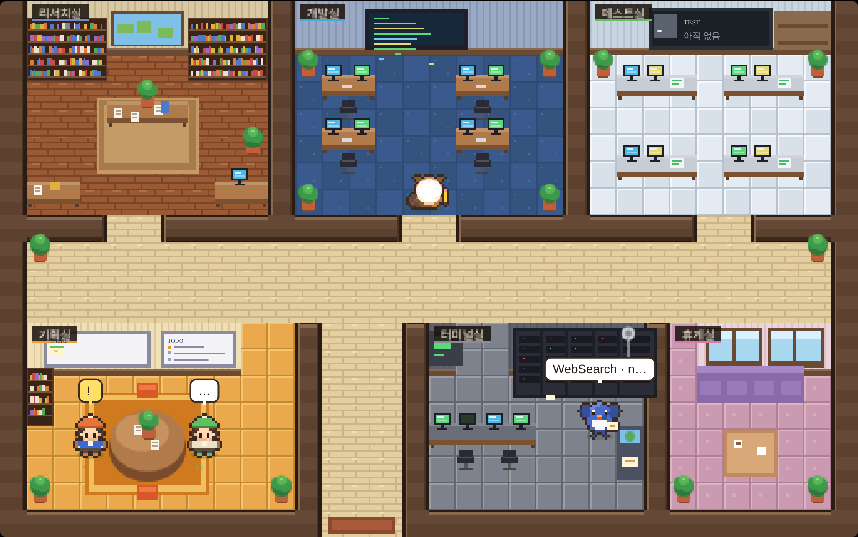
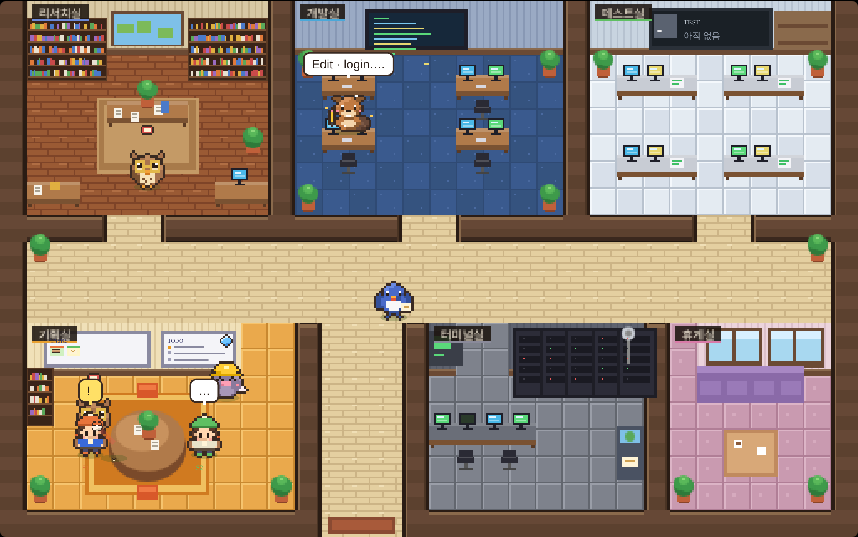
feat: release Pokémon from balls beside the trainer and recall them after work
- Trainer throws a ball, the Pokémon pops out beside them and walks to its room
- After the tool finishes it carries the result back and returns to the ball with a recall beam
- Subagent helper uses the same release and recall
- Remove office decoration growth (plants, trophies, completed count)

diff --git a/index.html b/index.html
@@ -85,7 +85,7 @@ footer{margin-top:18px;color:var(--quiet);font-size:12px;line-height:1.6}
 <div class="wrap">
   <header>
     <div>
-      <div class="kicker">CLAUDE CODE · POCKET OFFICE · v6</div>
+      <div class="kicker">CLAUDE CODE · POCKET OFFICE · v7</div>
       <h1>포켓몬이 일하는 <span>가상 사무실</span></h1>
     </div>
     <div class="chip" id="modeChip">DEMO</div>
@@ -204,6 +204,7 @@ const SPR={
   sub:sprite((g,f)=>{const o=f,Y='#ffe066',S1='#e0b830';g.ell(9,7.4+o,4.6,4.1,Y,S1,'#fff3a8');g.p(8,2+o,Y);g.p(9,2+o,Y);g.p(9,1+o,Y);g.pm(6,7+o,DARK);g.pm(6,6+o,WHITE);g.p(8,9+o,'#ff9a3c');g.p(9,9+o,'#ff9a3c');g.p(8,10+o,'#e0702a');g.p(9,10+o,'#e0702a');g.pm(4,9+o,S1);g.pm(5,8+o,'#ffb0b0');g.ell(9,13.4,5.2,3.8,'#fbf6ea','#d9d2c0',null,(x,y)=>y>=11+((x+f)%2));g.p(6,13,'#e9a4c4');g.p(11,14,'#9ad0f0');}),
 };
 // tiny carry items
+const BALL=(()=>{const g=new Grid(8,8);g.ell(4,4,3.6,3.6,'#e8743b','#c25a28',null,(x,y)=>y<4);g.ell(4,4,3.6,3.6,'#fff4e6','#d9cdb8',null,(x,y)=>y>=4);g.rect(0,3,8,1,DARK);g.p(3,3,'#fff');g.p(4,3,'#fff');g.outline();return g.canvas();})();
 const ITEM={};(()=>{const mk=(fn)=>{const g=new Grid(8,8);fn(g);g.outline();return g.canvas();};
   ITEM.read=mk(g=>{g.rect(1,2,6,4,'#d9534f');g.rect(2,3,4,2,'#fff4d6');});ITEM.search=mk(g=>{g.ell(4,4,2.6,2.6,'#6cc4ff','#3a8ad9','#e0f4ff');});
   ITEM.edit=mk(g=>{g.rect(0,3,8,2,'#c08a5e');g.rect(0,3,8,1,'#d8a878');});ITEM.bash=mk(g=>{g.rect(1,1,6,6,'#3a3a4a');g.rect(2,2,4,4,'#3fbf66');});
@@ -475,23 +476,25 @@ function handleEvent(ev){
   renderTowns();if(town.name===active)renderSide();
 }
 function freeSpot(town,mo,list,taken){const used=town.mons.filter(m=>m!==mo&&m.spot).map(m=>m.spot.join());return list.find(s=>!used.includes(s.join()))||list[Math.floor(Math.random()*list.length)];}
+function besideTrainer(town,tr){const n=town.mons.filter(m=>m.owner===tr&&['throw','appear'].includes(m.state)).length;const offs=[[14,2],[-14,2],[0,10],[22,8],[-22,8],[8,-6]];const o=offs[n%offs.length];return{x:tr.x+o[0],y:tr.y+o[1]};}
+function releaseMon(town,tr,mo){mo.owner=tr;const p=besideTrainer(town,tr);mo.x=p.x;mo.y=p.y;mo.state='throw';mo.t=360;tr.face=p.x<tr.x?-1:1;tr.faceUntil=now.t+900;
+  town.fx.push({type:'ball',x0:tr.x+tr.face*4,y0:tr.y-16,x1:p.x,y1:p.y-6,t:0,dur:360});}
+function recallMon(town,mo){const tr=mo.owner;if(!tr||!town.trainers.has(tr.id)){mo.state='vanish';mo.t=350;town.fx.push({type:'poof',x:mo.x,y:mo.y-10,t:0});return;}
+  mo.state='return';const p=besideTrainer(town,tr);goTo(mo,p.x,p.y);}
 function newJob(town,tr,ev,act){const role=act.role;const job={id:ev.id||`${ev.session}:${ev.tool}:${now.t}:${Math.random()}`,tool:act.tool,rawTool:ev.tool,label:act.label,key:`${ev.session}:${ev.tool}`,role,detail:ev.detail||ev.tool,tr,ok:undefined,start:now.t,endAt:null,mon:null};
   town.jobs.push(job);tr.state='think';town.restMode=false;
-  const d=DOOR[HAB[role].room];const mon=mkMon(role,false,{x:(d[0]+rand(-.3,.3))*T,y:d[1]*T});town.mons.push(mon);
-  mon.job=job;job.mon=mon;mon.state='appear';mon.t=420;town.fx.push({type:'poof',x:mon.x,y:mon.y-10,t:0});
-  ticker(town,`${HAB[role].name}: ${josa(nameOf(role),'이/가')} 나왔다 — 「${actText(act)}」 ${job.detail}`,tr);log('tool_start',`${town.name}·${tr.no} ${ev.tool} (${act.label}): ${job.detail}`);}
+  const mon=mkMon(role,false,{x:tr.x,y:tr.y});town.mons.push(mon);releaseMon(town,tr,mon);
+  mon.job=job;job.mon=mon;
+  ticker(town,`${tname(tr)}: 가라, ${nameOf(role)}! — 「${actText(act)}」 ${job.detail} (${HAB[role].name})`,tr);log('tool_start',`${town.name}·${tr.no} ${ev.tool} (${act.label}): ${job.detail}`);}
 function findJob(town,tr,ev){let j=ev.id&&town.jobs.find(x=>x.id===ev.id&&x.ok===undefined);if(!j)j=town.jobs.find(x=>x.key===`${ev.session}:${ev.tool}`&&x.ok===undefined);if(!j)j=town.jobs.find(x=>x.rawTool===ev.tool&&x.ok===undefined);return j;}
-function spawnSub(town,tr,ev){const mo=mkMon('sub',true,{x:tr.x+8,y:tr.y});town.fx.push({type:'poof',x:mo.x,y:mo.y-10,t:0});mo.subOf=tr.id;mo.state='subwork';mo.job={detail:ev.detail||'조사'};town.mons.push(mo);
+function spawnSub(town,tr,ev){const mo=mkMon('sub',true,{x:tr.x,y:tr.y});mo.subOf=tr.id;mo.job={detail:ev.detail||'조사'};mo.afterAppear='subwork';town.mons.push(mo);releaseMon(town,tr,mo);
   ticker(town,`${tname(tr)}의 「Agent · 서브에이전트 출동」! ${josa(nameOf('sub'),'이/가')} 조사하러 나갔다: ${ev.detail||''}`,tr);log('sub',`${town.name}·${tr.no} Task ${ev.detail||''}`);dexStats.sub.count++;dexStats.sub.last=ev.detail||'';renderDex();}
-function endSub(town,tr){const mo=town.mons.find(m=>m.role==='sub'&&m.subOf===tr.id&&m.state!=='bye');if(!mo)return;mo.state='subdone';mo.carry=true;goTo(mo,tr.x+12,tr.y);
+function endSub(town,tr){const mo=town.mons.find(m=>m.role==='sub'&&m.subOf===tr.id&&!['return','recall','vanish'].includes(m.state));if(!mo)return;mo.carry=true;recallMon(town,mo);
   ticker(town,`${josa(nameOf('sub'),'이/가')} 조사 결과를 들고 돌아왔다!`,tr);log('sub',`${town.name}·${tr.no} SubagentStop`);}
 function sendRest(){}
 
 // growth (office gets nicer)
-function grow(town,job){const g=town.growth;g.done++;const r=job.role;
-  if(r==='edit'){g.edits++;if(g.edits%5===0&&g.plants<6){g.plants++;ticker(town,`코드가 쌓여서 복도에 화분이 하나 늘었다! (${g.plants}/6)`);town.fx.push({type:'confetti',x:16*T,y:10*T,t:0});}}
-  if(r==='test'){town.lastTest={ok:true,label:job.label,at:now.t};if(job.label==='테스트 실행'&&g.trophies<6){g.trophies++;ticker(town,`테스트 통과! 테스트실 선반에 트로피 추가 (${g.trophies}/6)`);}town.fx.push({type:'confetti',x:26*T,y:2*T,t:0});}
-  renderSide();}
+function grow(town,job){if(job.role==='test')town.lastTest={ok:true,label:job.label,at:now.t};renderSide();}
 
 // monster brain
 function updateMon(town,mo,dt){const h=HAB[mo.role];mo.t-=dt;
@@ -503,11 +506,12 @@ function updateMon(town,mo,dt){const h=HAB[mo.role];mo.t-=dt;
         const p=randomFloor(h.room);goTo(mo,p.x,p.y);}break;
     case 'nap':if(mo.t<=0){mo.state='wander';mo.idle=0;}break;
     case 'rest':if(moveAlong(mo,.04*dt)){mo.face=1;if(mo.t<=0&&!town.restMode){mo.state='wander';mo.rest=null;const p=randomFloor(h.room);goTo(mo,p.x,p.y);}}break;
-    case 'appear':if(mo.t<=0){mo.state='go';mo.rest=null;const s=freeSpot(town,mo,h.spots);mo.spot=s;goTo(mo,s[0]*T,s[1]*T);}break;
-    case 'go':if(moveAlong(mo,.075*dt)){mo.state='work';mo.workStart=now.t;mo.face=1;}break;
+    case 'throw':if(mo.t<=0){mo.state='appear';mo.t=320;town.fx.push({type:'flash',x:mo.x,y:mo.y-8,t:0});}break;
+    case 'appear':if(mo.t<=0&&mo.afterAppear){mo.state=mo.afterAppear;mo.afterAppear=null;mo.pause=200;break;}if(mo.t<=0){mo.state='go';mo.rest=null;const s=freeSpot(town,mo,h.spots);mo.spot=s;goTo(mo,s[0]*T,s[1]*T);}break;
+    case 'go':if(moveAlong(mo,.1*dt)){mo.state='work';mo.workStart=now.t;mo.face=1;}break;
     case 'work':{const j=mo.job;if(j.ok!==undefined&&now.t-mo.workStart>800){
         dexStats[mo.role].count++;dexStats[mo.role].last=j.detail;
-        if(j.ok){mo.state='cheer';mo.t=700;town.fx.push({type:'fly',x0:mo.x,y0:mo.y-20,x1:BOARD.x+rand(-14,14),y1:BOARD.y,t:0,role:mo.role});grow(town,j);
+        if(j.ok){mo.state='cheer';mo.t=600;mo.carry=true;grow(town,j);
           ticker(town,`${nameOf(mo.role)}의 「${j.tool} · ${j.label}」 성공! ${j.detail.replace(/"/g,'')}`,j.tr);log('tool_end',`${town.name}·${j.tr.no} ${j.tool} ${j.label} 완료`);}
         else{mo.state='sad';mo.t=1500;if(mo.role==='test')town.lastTest={ok:false,label:j.label,at:now.t};ticker(town,`${nameOf(mo.role)}의 「${j.tool} · ${j.label}」 실패… ${j.detail}`,j.tr);log('tool_end',`${town.name}·${j.tr.no} ${j.tool} 실패`,'fail');}
         renderDex();}break;}
@@ -516,11 +520,14 @@ function updateMon(town,mo,dt){const h=HAB[mo.role];mo.t-=dt;
     case 'subdone':if(moveAlong(mo,.07*dt)){mo.state='bye';mo.t=700;mo.carry=false;town.fx.push({type:'pop',x:mo.x,y:mo.y-20,t:0});}break;
     case 'bye':if(mo.t<=0)mo.dead=true;break;
     case 'leave':if(moveAlong(mo,.06*dt))mo.dead=true;break;
-    case 'exit':if(moveAlong(mo,.07*dt)){mo.state='vanish';mo.t=350;town.fx.push({type:'poof',x:mo.x,y:mo.y-10,t:0});}break;
+    case 'return':{const tr=mo.owner;if(!tr||!town.trainers.has(tr.id)){mo.state='vanish';mo.t=350;break;}
+      if(moveAlong(mo,.1*dt)){if(Math.hypot(mo.x-tr.x,mo.y-tr.y)>30){const p=besideTrainer(town,tr);goTo(mo,p.x,p.y);break;}
+        mo.state='recall';mo.t=420;mo.carry=false;mo.face=tr.x<mo.x?-1:1;tr.face=mo.x<tr.x?-1:1;tr.faceUntil=now.t+700;town.fx.push({type:'beam',tr,mo,t:0,dur:420});}break;}
+    case 'recall':if(mo.t<=0)mo.dead=true;break;
     case 'vanish':if(mo.t<=0)mo.dead=true;break;
   }}
 function finishJob(town,mo){const j=mo.job;town.jobs=town.jobs.filter(x=>x!==j);mo.job=null;mo.spot=null;
-  const d=DOOR[HAB[mo.role].room];mo.state='exit';goTo(mo,d[0]*T,d[1]*T);
+  recallMon(town,mo);
   const tr=j.tr;if(!town.jobs.some(x=>x.tr===tr)&&tr.state==='think')tr.bubble='…';}
 
 // ───────── UI: towns, side panels
@@ -554,8 +561,7 @@ function renderSessions(){const t=towns.get(active);const el=$('sessList');if(!e
     c.innerHTML=`<div class="sw" style="width:40px;height:40px;background:${HATS[tr.color][0]}">S${tr.no}</div><div><div class="a"></div><div class="b"></div></div><div class="tm" style="color:${tr.state==='wait'?'var(--amber)':'var(--quiet)'}">${jobs?jobs+'건':''}</div>`;
     c.querySelector('.a').textContent=`${tname(tr)} · ${st}`;c.querySelector('.b').textContent=tr.prompt?`"${tr.prompt}"`:`세션 ${String(tr.id).slice(0,8)}`;el.appendChild(c);});
   if(t.todos.length){const d=document.createElement('div');d.style.cssText='margin-top:8px;font-size:13px;line-height:1.7';d.innerHTML='<div class="muted" style="font-size:12px">화이트보드 할 일</div>';
-    t.todos.forEach(td=>{const x=document.createElement('div');x.textContent=(td.s==='done'?'☑ ':td.s==='doing'?'▶ ':'☐ ')+td.text;if(td.s==='done')x.style.color='var(--quiet)';d.appendChild(x);});el.appendChild(d);}
-  const gs=document.createElement('div');gs.className='muted';gs.style.cssText='margin-top:8px;font-size:12px';gs.textContent=`완료 의뢰 ${g.done} · 트로피 ${g.trophies}/6 · 화분 ${g.plants}/6`;el.appendChild(gs);}
+    t.todos.forEach(td=>{const x=document.createElement('div');x.textContent=(td.s==='done'?'☑ ':td.s==='doing'?'▶ ':'☐ ')+td.text;if(td.s==='done')x.style.color='var(--quiet)';d.appendChild(x);});el.appendChild(d);}}
 setInterval(()=>{if(!paused)renderWork();},1000);
 function thumb(c,img){const x=c.getContext('2d');x.imageSmoothingEnabled=false;x.clearRect(0,0,48,48);const s=Math.min(44/img.width,44/img.height);const w=img.width*s,h=img.height*s;x.drawImage(img,(48-w)/2,(48-h)/2,w,h);}
 function buildDex(){}
@@ -729,12 +735,12 @@ function frame(ts){TS=Math.min(1.9,Math.max(1,900/(cv.clientWidth||900)));const 
   const town=towns.get(active);
   ctx.drawImage(map,0,0,BW*S,BH*S);animMap(now.t);
   if(town){
-    drawGrowth(town.growth);drawBoards(town);
+    drawBoards(town);
     const ents=[];
     town.mons.forEach(mo=>ents.push({y:mo.y,draw:()=>{const busy=mo.state==='work'||mo.state==='notice';const moving=mo.path.length>0;
       const f=busy?Math.floor(now.t/140)%2:moving?Math.floor(now.t/160)%2:Math.floor(now.t/700)%2;const cu=!!custom[mo.role];const sc=mo.helper&&mo.role!=='sub'?.82:1;
       const hop=moving?(cu?Math.abs(Math.sin(now.t/90))*2:f):busy&&cu?Math.abs(Math.sin(now.t/110))*2:0;
-      shadow(mo.x,mo.y,8*sc);const k=mo.state==='appear'?Math.max(.15,1-mo.t/420):mo.state==='vanish'?Math.max(.05,mo.t/350):1;const h=drawImg(monImg(mo.role,f),mo.x,mo.y-hop,mo.face,{cu,scale:sc*k,alpha:mo.state==='bye'?Math.max(0,mo.t/700):1});
+      shadow(mo.x,mo.y,8*sc);if(mo.state==='throw')return;const k=mo.state==='appear'?Math.max(.1,1-mo.t/320):mo.state==='recall'?Math.max(.03,mo.t/420):mo.state==='vanish'?Math.max(.05,mo.t/350):1;const h=drawImg(monImg(mo.role,f),mo.x,mo.y-hop,mo.face,{cu,scale:sc*k,alpha:mo.state==='bye'?Math.max(0,mo.t/700):1});
       if(mo.state==='work')moveFx(mo.role,mo,now.t);
       if(mo.state==='appear'&&mo.t<300){ctx.font=`${7*S}px 'Press Start 2P'`;ctx.fillStyle='#e8a020';ctx.fillText('!',px(mo.x-2),px(mo.y-h-4));}
       if(mo.state==='nap'){ctx.font=`${5*S}px 'Press Start 2P'`;ctx.fillStyle='#6b8ab0';ctx.fillText('z',px(mo.x+8),px(mo.y-h-((now.t/220)%5)));}
@@ -747,12 +753,16 @@ function frame(ts){TS=Math.min(1.9,Math.max(1,900/(cv.clientWidth||900)));const 
       if(mo.state==='work'&&mo.job)bubble(mo.x,mo.y,`${mo.job.tool} · ${mo.job.detail}`,'#fff',h+6);
       if(mo.state==='subwork')bubble(mo.x,mo.y,mo.job.detail,'#fff7d6',h+6);}}));
     town.trainers.forEach(tr=>ents.push({y:tr.y,draw:()=>{const moving=tr.path.length>0;const f=moving?Math.floor(now.t/130)%2:tr.state==='wait'?Math.floor(now.t/90)%2:Math.floor(now.t/800)%2;
-      shadow(tr.x,tr.y);const h=drawImg(trainerImg(tr.color,f),tr.x,tr.y-(moving||tr.state==='wait'?f:0),moving?tr.face:tr.lounge?1:(tr.x>5.5*T?-1:1),{cu:!!custom.trainer});
+      shadow(tr.x,tr.y);const h=drawImg(trainerImg(tr.color,f),tr.x,tr.y-(moving||tr.state==='wait'?f:0),(tr.faceUntil&&now.t<tr.faceUntil)?tr.face:moving?tr.face:tr.lounge?1:(tr.x>5.5*T?-1:1),{cu:!!custom.trainer});
       ctx.fillStyle=HATS[tr.color][0];ctx.font=`${4*S}px 'Press Start 2P'`;ctx.fillText('S'+tr.no,px(tr.x-5),px(tr.y+9));
       if(tr.state==='sleep'){ctx.font=`${5*S}px 'Press Start 2P'`;ctx.fillStyle='#6b8ab0';ctx.fillText('z',px(tr.x+8),px(tr.y-h-((now.t/220)%5)));}
       if(tr.bubble)bubble(tr.x,tr.y,tr.bubble,tr.bubble==='!'?'#ffe066':'#fff',h+4);}}));
     ents.sort((a,b)=>a.y-b.y).forEach(e=>e.draw());
     town.fx=town.fx.filter(f=>{f.t+=dt;const k=f.t/900;if(f.type==='pop'){ctx.fillStyle=`rgba(255,220,100,${1-k})`;for(let i=0;i<6;i++){const a=i*Math.PI/3;ctx.fillRect(px(f.x+Math.cos(a)*k*14),px(f.y+Math.sin(a)*k*10),2*S,2*S);}return k<1;}
+      if(f.type==='ball'){const k5=Math.min(1,f.t/f.dur);const x=f.x0+(f.x1-f.x0)*k5,y=f.y0+(f.y1-f.y0)*k5-Math.sin(k5*Math.PI)*14;ctx.save();ctx.translate(px(x),px(y));ctx.rotate(k5*9);ctx.drawImage(BALL,-4*S,-4*S,8*S,8*S);ctx.restore();return k5<1;}
+      if(f.type==='flash'){const k6=f.t/320;ctx.fillStyle=`rgba(255,255,255,${Math.max(0,.95-k6)})`;ctx.beginPath();ctx.arc(px(f.x),px(f.y),px(3+k6*14),0,7);ctx.fill();for(let i=0;i<8;i++){const a=i*Math.PI/4;ctx.fillRect(px(f.x+Math.cos(a)*(5+k6*15)),px(f.y+Math.sin(a)*(5+k6*15)),2*S,2*S);}return k6<1;}
+      if(f.type==='beam'){const k7=f.t/f.dur;const a=f.tr,b=f.mo;ctx.strokeStyle=`rgba(255,80,80,${Math.max(0,1-k7*.8)})`;ctx.lineWidth=S*3;ctx.beginPath();ctx.moveTo(px(a.x+(a.face||1)*4),px(a.y-16));ctx.lineTo(px(b.x),px(b.y-8));ctx.stroke();
+        ctx.strokeStyle=`rgba(255,220,220,${Math.max(0,.9-k7)})`;ctx.lineWidth=S;ctx.stroke();if(k7>.75){ctx.save();ctx.translate(px(a.x+(a.face||1)*4),px(a.y-16));ctx.drawImage(BALL,-3*S,-3*S,6*S,6*S);ctx.restore();}return k7<1;}
       if(f.type==='poof'){const k4=f.t/450;for(let i=0;i<8;i++){const a=i*Math.PI/4;ctx.fillStyle=`rgba(255,255,255,${Math.max(0,.9-k4)})`;ctx.beginPath();ctx.arc(px(f.x+Math.cos(a)*(4+k4*12)),px(f.y+Math.sin(a)*(3+k4*8)),px(3*(1-k4)+1),0,7);ctx.fill();}return k4<1;}
       if(f.type==='fly'){const k3=Math.min(1,f.t/700);const x=f.x0+(f.x1-f.x0)*k3,y=f.y0+(f.y1-f.y0)*k3-Math.sin(k3*Math.PI)*30;ctx.drawImage(ITEM[f.role==='sub'?'read':f.role],px(x-4),px(y-4),8*S,8*S);if(k3>=1){town.fx.push({type:'pop',x:f.x1,y:f.y1,t:0});return false;}return true;}
       if(f.type==='confetti'){const k2=f.t/1600;for(let i=0;i<18;i++){ctx.fillStyle=['#ff8fb0','#ffd84a','#6cc4ff','#7cd06a'][i%4];ctx.fillRect(px(f.x+Math.cos(i*1.7)*k2*40),px(f.y-20+Math.sin(i*2.3)*k2*16+k2*k2*30),2*S,2*S);}return k2<1;}return false;});

diff --git a/README.md b/README.md
@@ -5,7 +5,8 @@
 
 <p align="center"><img src="docs/demo.gif" alt="포켓 오피스 데모" width="720"></p>
 
-- Claude가 툴을 쓰면 **담당 포켓몬이 그 방에 나타나 실제 툴 이름으로 기술을 써요.** 예: 「Read · 파일 읽기」, 「Bash · 테스트 실행」
+- Claude가 툴을 쓰면 **트레이너가 볼을 던져 담당 포켓몬을 꺼내고**, 포켓몬이 그 방으로 가서 실제 툴 이름으로 기술을 써요. 예: 「Read · 파일 읽기」, 「Bash · 테스트 실행」
+- 일이 끝나면 결과를 들고 트레이너에게 돌아와 **다시 볼 안으로** 들어가요.
 - 방만 봐도 지금 단계가 보여요: **리서치실**(조사) → **개발실**(수정) → **테스트실**(검증), 그 밖의 명령·외부 연결은 **터미널실**
 - Claude Code 세션 하나가 트레이너 한 명이에요. 기획실 원탁에서 지시를 내리고, 답변이 끝나면 **휴게실**로 가요(= 이제 내 차례).
 - 프로젝트 폴더마다 사무실이 따로 생겨요(상단 탭).
@@ -41,14 +42,13 @@ macOS·Linux의 Claude Code는 검색을 `Grep`/`Glob` 대신 `Bash`(`rg`, `find
 | --- | --- |
 | 세션 시작 / 종료 | 트레이너가 입구로 출근해 기획실 원탁에 앉음 / 퇴근 |
 | 프롬프트 입력 | 트레이너 말풍선, 휴게실에 있었다면 기획실로 복귀 |
-| 툴 시작 → 끝 | 담당 포켓몬이 방 문에서 나타나 자리에서 일하고, 끝나면 문으로 나가 사라짐 (화면에 포켓몬이 있으면 = 지금 그 일을 하는 중) |
+| 툴 시작 → 끝 | 트레이너가 볼을 던짐 → 옆에 포켓몬 등장 → 담당 방 자리로 가서 일함 → 결과를 들고 돌아와 빨간 빛과 함께 볼로 들어감 (화면에 나와 있는 포켓몬 = 지금 그 일을 하는 중) |
 | 툴 동시 호출 | 여러 포켓몬이 동시에 나타남 |
 | 툴 실패 | 포켓몬이 시무룩해짐 (테스트 실패면 상태판 ✗) |
-| 서브에이전트 (`Agent`) | 조수 포켓몬이 사무실을 돌며 조사하고 보고 |
+| 서브에이전트 (`Agent`) | 조수 포켓몬이 볼에서 나와 사무실을 돌며 조사하고, 끝나면 돌아와 볼로 |
 | 권한 요청 · `AskUserQuestion` | 트레이너 머리 위 "!"/"?" + 화면 상단 알림 (답은 터미널에서) |
 | 답변 끝 (`Stop`) | 트레이너가 휴게실로 |
 
-일할수록 사무실이 꾸며져요. 테스트가 통과하면 테스트실 선반에 트로피가, 수정이 5번 쌓일 때마다 복도에 화분이 늘어요.
 
 ## 설치
 
